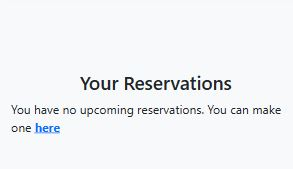
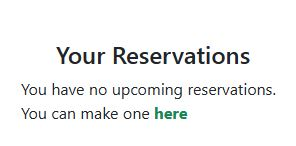
Update readme and collectstatic

Changed region(s): [[0.1843, 0.3014, 0.8601, 0.5479], [0.0307, 0.5753, 0.9829, 0.7123], [0.0307, 0.7123, 0.6451, 0.8219]]

diff --git a/home/templates/home/index.html b/home/templates/home/index.html
@@ -10,7 +10,7 @@
             <div class="col-lg-6 col-md-8 text-center">
                 <!-- Wrapper for darkened background behind text -->
                 <div class="hero-text-background p-4">
-                    <h2 class="hero-title" data-aos="fade-up">Where Else</h2>
+                    <h2 class="hero-title" data-aos="fade-up">Where Else...</h2>
                     <h2 class="hero-title main-title" data-aos="fade-up">The Failte Bistro</h2>
                     <p class="hero-description" data-aos="fade-up" data-aos-delay="100">
                         Aged Beef... Fresh Seafood...

diff --git a/staticfiles/js/back_to_top.js b/staticfiles/js/back_to_top.js
@@ -1,11 +1,15 @@
 /**
-   * Scroll top button
-   */
+* Scroll top button
+*/
 const scrollTop = document.querySelector('.scroll-top');
 if (scrollTop) {
   const togglescrollTop = function() {
-    window.scrollY > 100 ? scrollTop.classList.add('active') : scrollTop.classList.remove('active');
+    if (window.scrollY > 100) {
+    scrollTop.classList.add('active');
+  } else {
+    scrollTop.classList.remove('active');
   }
+  };
   window.addEventListener('load', togglescrollTop);
   document.addEventListener('scroll', togglescrollTop);
   scrollTop.addEventListener('click', window.scrollTo({

diff --git a/booking/templates/booking/reservations.html b/booking/templates/booking/reservations.html
@@ -53,7 +53,8 @@
 
                 {% empty %}
                 <p>You have no upcoming reservations. You can make one
-                    <a href="{% url 'create_booking' %}"><strong>here</strong></a></p>
+                    <a class="reserve" href="{% url 'create_booking' %}"><strong class="text-success">here</strong></a>
+                </p>
                 {% endfor %}
             </div>
         </div>

diff --git a/static/css/style.css b/static/css/style.css
@@ -288,3 +288,8 @@
 .heart-button:active {
     transform: scale(0.9);
 }
+
+/* Reservations Style */
+.reserve {
+    text-decoration: none;
+}

diff --git a/staticfiles/css/style.css b/staticfiles/css/style.css
@@ -288,3 +288,8 @@
 .heart-button:active {
     transform: scale(0.9);
 }
+
+/* Reservations Style */
+.reserve {
+    text-decoration: none;
+}

diff --git a/failte_bistro/settings.py b/failte_bistro/settings.py
@@ -27,7 +27,6 @@ TEMPLATES_DIR = os.path.join(BASE_DIR, 'templates')
 # See https://docs.djangoproject.com/en/4.2/howto/deployment/checklist/
 
 # SECURITY WARNING: keep the secret key used in production secret!
-# SECRET_KEY = 'django-insecure-_2qd-q#9vdnvvby&qr*e*hkxa@=y@et5sk%fof^vs4j*t^3)@3'
 SECRET_KEY = os.environ.get("SECRET_KEY")
 
 # SECURITY WARNING: don't run with debug turned on in production!
@@ -99,17 +98,6 @@ TEMPLATES = [
 ]
 
 WSGI_APPLICATION = 'failte_bistro.wsgi.application'
-
-
-# Database
-# https://docs.djangoproject.com/en/4.2/ref/settings/#databases
-
-# DATABASES = {
-#     'default': {
-#         'ENGINE': 'django.db.backends.sqlite3',
-#         'NAME': BASE_DIR / 'db.sqlite3',
-#     }
-# }
 
 DATABASES = {
     'default': dj_database_url.parse(os.environ.get("DATABASE_URL"))

diff --git a/failte_bistro/urls.py b/failte_bistro/urls.py
@@ -18,10 +18,6 @@ from django.conf import settings
 from django.conf.urls.static import static
 from django.contrib import admin
 from django.urls import path, include
-# from home import views as index_views
-# from about import views as about_views
-# from menu import views as menu_views
-# from booking import views as booking_views
 
 urlpatterns = [
     path('about/', include('about.urls'), name='about-urls'),
@@ -31,7 +27,4 @@ urlpatterns = [
     path('menu/', include('menu.urls'), name='menu-urls'),
     path('summernote/', include('django_summernote.urls')),
     path('', include('home.urls')),
-    
-    # path('menu/', menu_views.menu_failte_bistro, name='menu'),
-    
 ]

diff --git a/README.md b/README.md
@@ -43,7 +43,7 @@ View the live project [here.](https://django-pp4-failte-bistro-dd00169a966c.hero
 
 -   ### Wireframes
 
-    - Several wireframes were created to assist with the design however there is not an exhaustive collection of all page designs. Wireframes can be viewed [here](documentation/wireframes).
+    - Several wireframes were created to assist with the design. Wireframes can be viewed [here](documentation/wireframes).
 
 -   ### Database Schema 
 
@@ -103,7 +103,8 @@ View the live project [here.](https://django-pp4-failte-bistro-dd00169a966c.hero
           - Failte Bistro was developed to ensure a smooth user experience, to the best of my current learning experience with Django. 
 
             - Input validation and error messages provide feedback to the user to guide them towards the desired outcome. 
-            - Unregistered users are diverted to the Sign Up page from restricted access pages. 
+            - Unregistered users are diverted to the Sign In page or Sign Up through a link from restricted reservation booking page. 
+            - Unregistered users are restricted from viewing comments in the menu detail page.
             - Authentication processes control edit/delete icons to reveal them to the content author only. 
             - Deletion of data is confirmed through an additional modal, double-checking with the user.
             - Testing and validation of features completes the process.
@@ -124,7 +125,7 @@ It was important to me from the beginning that the Failte Bistro be accessible t
 | Home Page | Visable           | Visable         |
 | About Page | Visable          | Visable         |
 | Menu      | Visable           | Visable         |
-| Menu Detail Page | Visable           | Visable but full feature interaction not available        |
+| Menu Detail Page | Visable but full feature interaction not available | Visable and full feature interaction not available        |
 | Booking   | Icon visible but redirected to Sign In page/Sign Up through link | Visable and full feature interaction available |
 | Reservation Page  | Not Visable | Visable and full feature interaction available |
 
@@ -164,7 +165,7 @@ It was important to me from the beginning that the Failte Bistro be accessible t
 
 ### Back To Top
 
-- The Back To Top link again has a simple design. When the user clicks the button, it typically triggers a JavaScript function to scroll the page back to the top. It also aligns with the color scheme. This feature enhances the ux.
+- The Back To Top link again has a simple design. When the user clicks the button, it typically triggers a JavaScript function to scroll the page back to the top. It also aligns with the color scheme. This feature enhances the user experience.
 
 ![ Back To Top ](documentation/features/back-to-top.JPG) 
 
@@ -210,6 +211,10 @@ It was important to me from the beginning that the Failte Bistro be accessible t
 
 ![ Menu Detail ](documentation/features/menu-detail-textarea-mobile.JPG)
 
+![ Menu Detail ](documentation/features/menu-detail-comment-desktop.JPG)
+
+![ Menu Detail ](documentation/features/menu-detail-comment-mobile.JPG)
+
 ### Reservations 
 
 - The Reservations page shows a user's bookings with relevant information for the user, while logged in or if the user has no bookings, informs the user there are no reservations and provides a link to book a table.
@@ -244,7 +249,7 @@ It was important to me from the beginning that the Failte Bistro be accessible t
 
 ### Account Sign In  
 
-- Users are required to add their Username and Password to ensure the correct one is saved. If any field is not filled in appropriately then a display message is used to inform the user with how to procede to complete the form. The Sign in page is created with a default template available with the AllAuth package. These templates are combined with the power of Bootstraps Crispy Forms pack to give extra control over the forms' appearance.
+- Users are required to add their Username and Password to ensure the correct one is saved. If any field is not filled in appropriately then a display message is used to inform the user with how to procede to complete the form. The Sign in page is created with a default template available with the AllAuth package. These templates are combined with the power of Bootstraps Form is rendered as paragraphs in the template pack to give extra control over the forms' appearance.
 
 
 ![ login ](documentation/features/sign-in-desktop.JPG)
@@ -256,13 +261,11 @@ It was important to me from the beginning that the Failte Bistro be accessible t
 - A user may choose to sign out and if so will be redirected to the home page on successfull sign out.
 
 
-![ logout ](documentation/features/sign-out-desktop.JPG)
-
 ![ logout ](documentation/features/sign-out-desktop.JPG)  
 
 ### Future Features
 
-- **Admin Page**: The admin page can be customised and features styled to the users requirements.
+- **Admin Page**: The admin page can be customised and features styled to staff / superuser requirements.
 - **Social account login**: Allowing popular social account login to the Failte Bistro site will speed up the registration and booking process.
 
 ## Technologies and Languages Used
@@ -326,7 +329,7 @@ It was important to me from the beginning that the Failte Bistro be accessible t
 
 ## Testing  
 
-Both manual and automated testing was used during the final development phase of the project. For all testing, please refer to the [TESTING.md](TESTING.md) file.
+Test scenarios for the Failte Bistro application were created by the Junior Full Stack Software Developer (Gary Broderick). User testing (by family and friends) was also executed. Automated testing was used during the final development phase of the project. For all testing, please refer to the [TESTING.md](TESTING.md) file.
 
 ## Deployment
 
@@ -513,6 +516,7 @@ Note: The `cloudinary_storage` app must be immediately after `django.contrib.sta
 ### Acknowledgements
   - My Code Institute Mentor Rory Patrick Sheridan for feedback and suggestions.
   - My Code Institute Cohort Facilitator Lewis Dillon for project ideas and information.
+  - My Code Institute Tutor Oisin.
   - My family, who helped keep me motivated during this challenging and fun project.
 
 [🔼 Back to top](#user-experience-ux)
